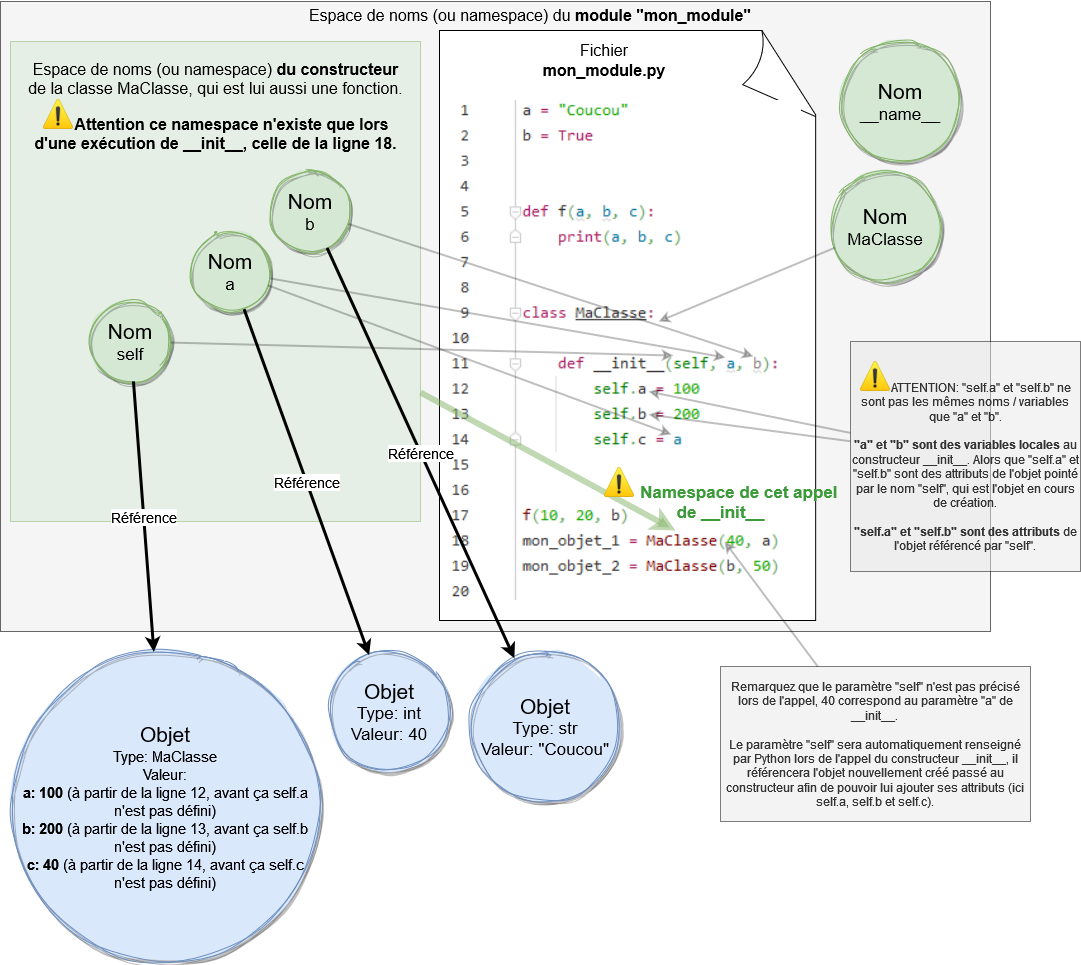
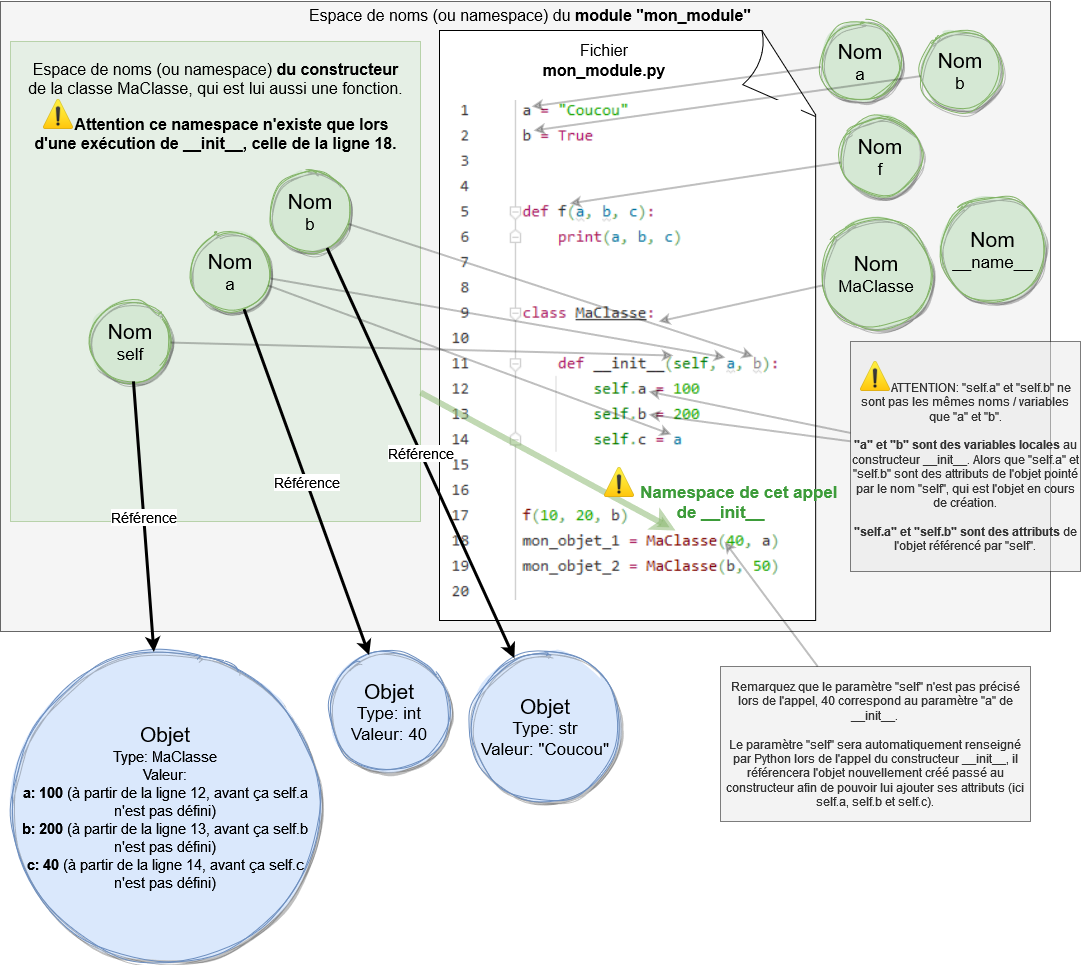
-

diff --git a/cm_namespaces_modules.html b/cm_namespaces_modules.html
@@ -447,6 +447,11 @@ __main__</code></pre>
 		mais pour rendre le schéma plus lisible les objets sont montrés éparpillés autour du namespace.)</p>
 <img alt="" src="img/cm_namespaces/constructeur.png"/>
 <h3 data-nb="8.9.4" id="Namespace des deux instances de MaClasse:">Namespace des deux instances de MaClasse:</h3>
+<p>Les namespaces des objets sont un peu spéciaux, car on n'exécute jamais du code dans le "contexte" d'un objet, mais dans des méthodes, où on y fait
+		référence toujours par le paramètre "self", comme dans le constructeur tel qu'illustré dans le schéma plus haut. C'est pour cette raison que les autres
+		variables n'apparaissent pas sur le schéma ci-dessous, car la notion de visibilité n'a pas vraiment de sens, seule la notion de nom DANS le namespace de
+		chaque objet est pertinente. Mais conceptuellement on peut représenter les namespaces des deux instances "mon_objet_1" et "mon_objet_2" comme
+		ci-dessous. </p>
 <p>(Attention, les objets sont toujours stockés dans l'espace unique des objets (voir partie sur le <a href="cm_memoire_donnees.html">modèle de données</a>),
 		mais pour rendre le schéma plus lisible les objets sont montrés éparpillés autour du namespace.)</p>
 <img alt="" src="img/cm_namespaces/objets.png"/>
